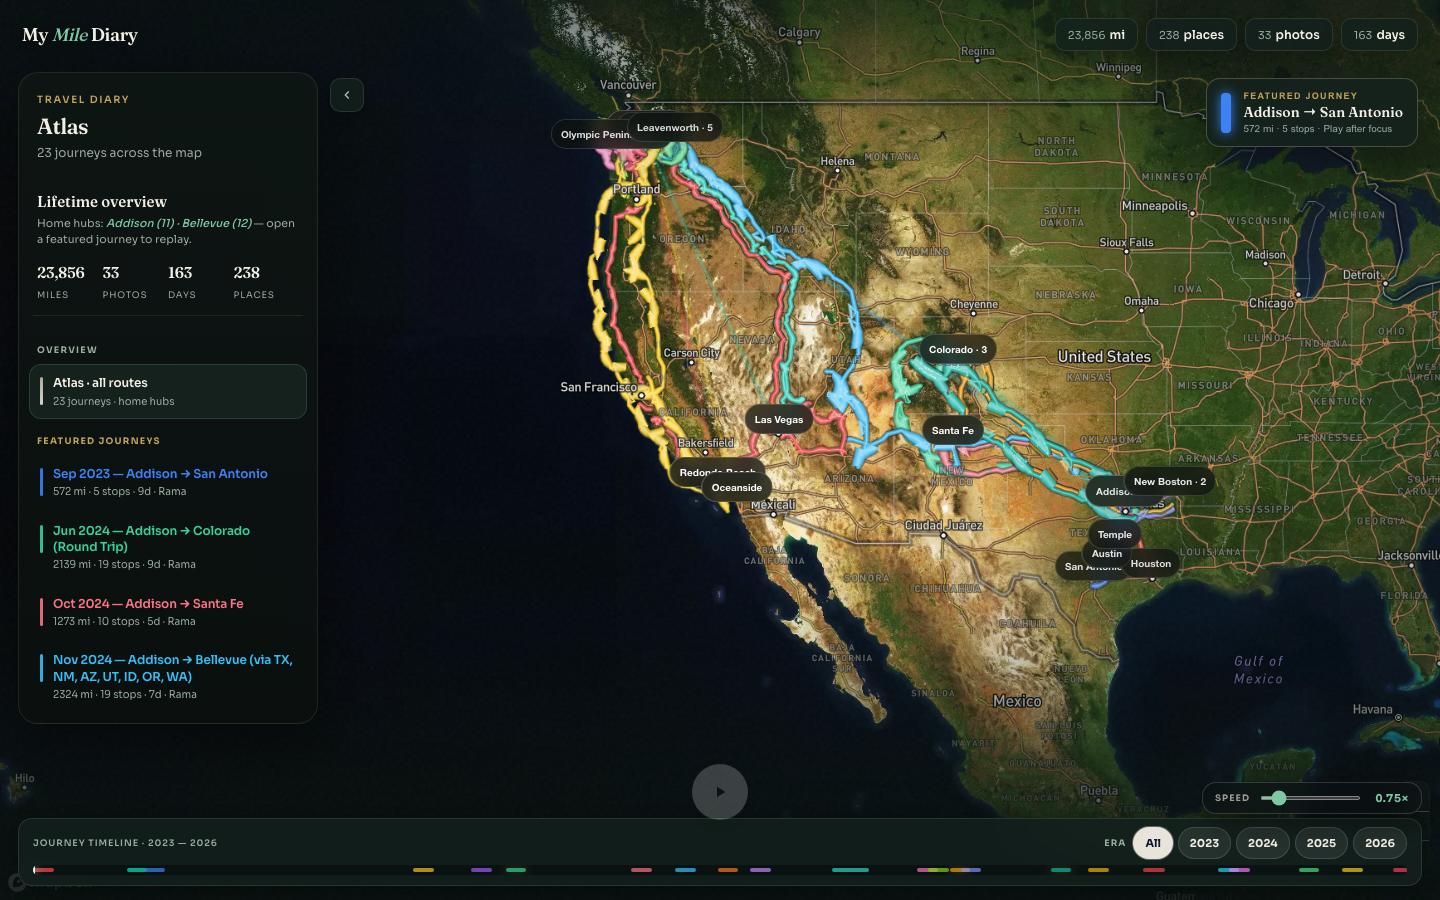
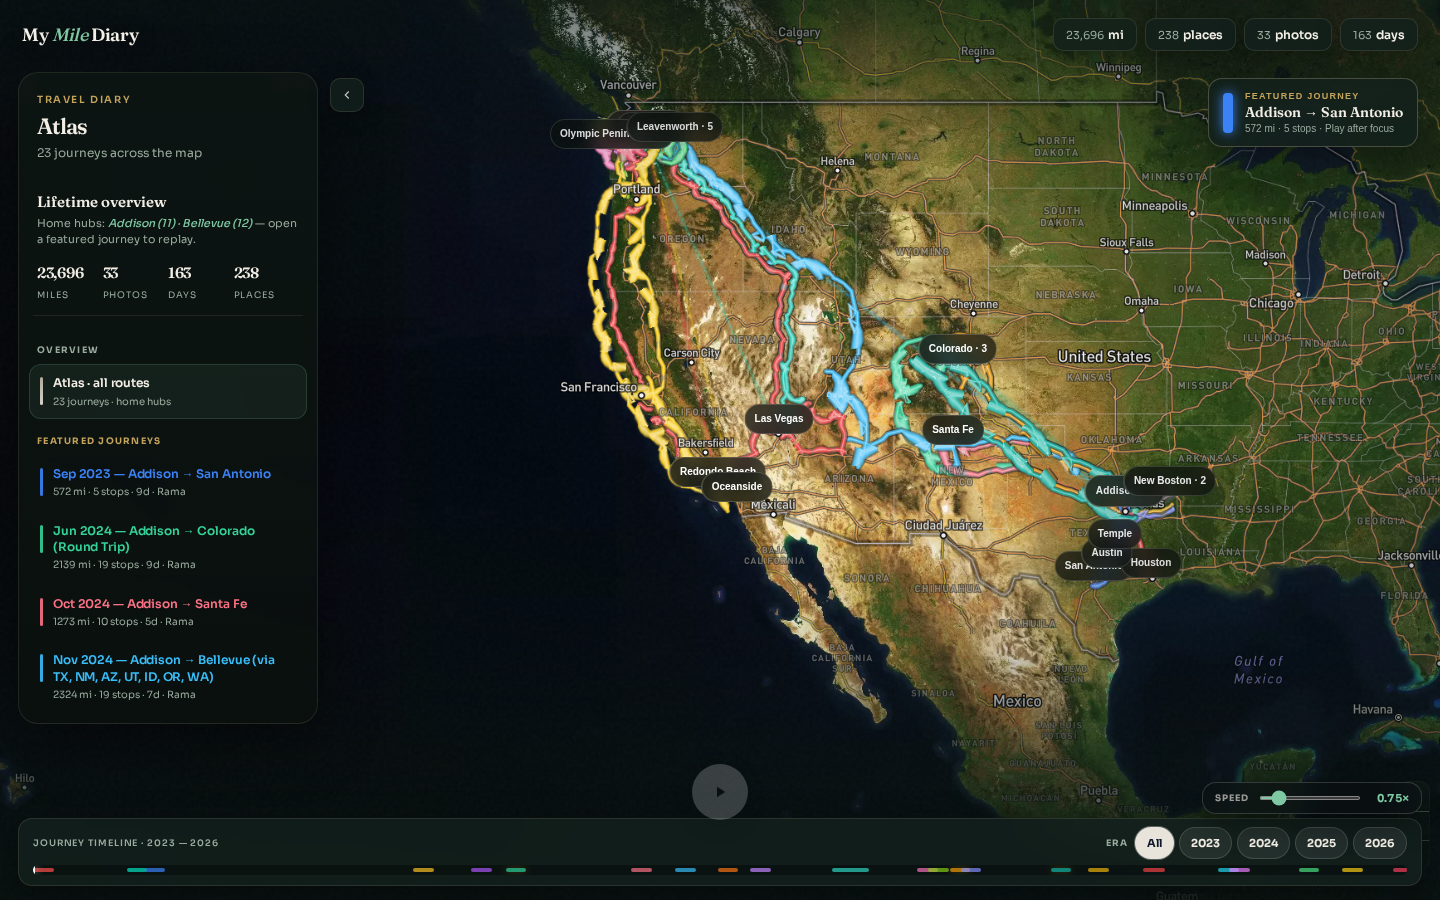
Fix photo pins stacking off-route via Mapbox marker CSS.
Keep album GPS snapped to the drive corridor, and stop .photo-pin from forcing position:relative — Mapbox markers need position:absolute or they stack miles visually off the glowing path. Assert pixel drift stays near zero in verify_map and refresh README screenshots.

diff --git a/scripts/verify_map.py b/scripts/verify_map.py
@@ -461,10 +461,26 @@ def main() -> int:
               });
               // Prefer server-side spur when present (exact snap distance)
               const spurMax = Math.max(0, ...photos.map(p => Number(p.spur_miles) || 0));
-              // Marker root must not fight Mapbox transform
-              const pin = document.querySelector('.photo-pin');
+              // Marker root must stay position:absolute (Mapbox) — never relative
+              const pin = document.querySelector('.photo-pin.mapboxgl-marker')
+                || document.querySelector('.photo-pin');
               const tr = pin ? getComputedStyle(pin).transitionProperty : '';
+              const pos = pin ? getComputedStyle(pin).position : '';
               const hasInner = !!document.querySelector('.photo-pin-inner');
+              // Pixel drift between geo projection and DOM box (relative stacking bug)
+              let maxPixelDrift = 0;
+              markers.forEach(m => {
+                try {
+                  const ll = m.getLngLat();
+                  const proj = map.project([ll.lng, ll.lat]);
+                  if (!Number.isFinite(proj.x) || !Number.isFinite(proj.y)) return;
+                  const rect = m.getElement().getBoundingClientRect();
+                  const dx = (rect.left + rect.width / 2) - proj.x;
+                  const dy = (rect.top + rect.height / 2) - proj.y;
+                  if (!Number.isFinite(dx) || !Number.isFinite(dy)) return;
+                  maxPixelDrift = Math.max(maxPixelDrift, Math.hypot(dx, dy));
+                } catch (_) {}
+              });
               return {
                 photoCount: photos.length,
                 markerCount: lngLats.length,
@@ -472,7 +488,9 @@ def main() -> int:
                 southOf32: south.length,
                 maxOffRouteMi: Math.round(maxOff * 100) / 100,
                 maxSpurMi: Math.round(spurMax * 100) / 100,
-                transformSafe: hasInner && !/transform/i.test(tr || ''),
+                markerPosition: pos,
+                maxPixelDrift: Math.round(maxPixelDrift * 10) / 10,
+                transformSafe: hasInner && !/transform/i.test(tr || '') && pos === 'absolute',
               };
             }"""
         )
@@ -906,7 +924,10 @@ def main() -> int:
             print(f"FAIL: Photo markers stacked into Mexico/south: {pp}")
             ok = False
         if not pp.get("transformSafe"):
-            print(f"FAIL: Photo pin root must not transition transform (Mapbox fight): {pp}")
+            print(f"FAIL: Photo pin root must be position:absolute without transform transition: {pp}")
+            ok = False
+        if float(pp.get("maxPixelDrift") or 0) > 8:
+            print(f"FAIL: Photo pin DOM drifted from geo projection (stacking bug): {pp}")
             ok = False
         if float(pp.get("maxOffRouteMi") or 0) > 2.5:
             print(f"FAIL: Photo pins must snap onto the corridor (<=2.5mi sample): {pp}")
